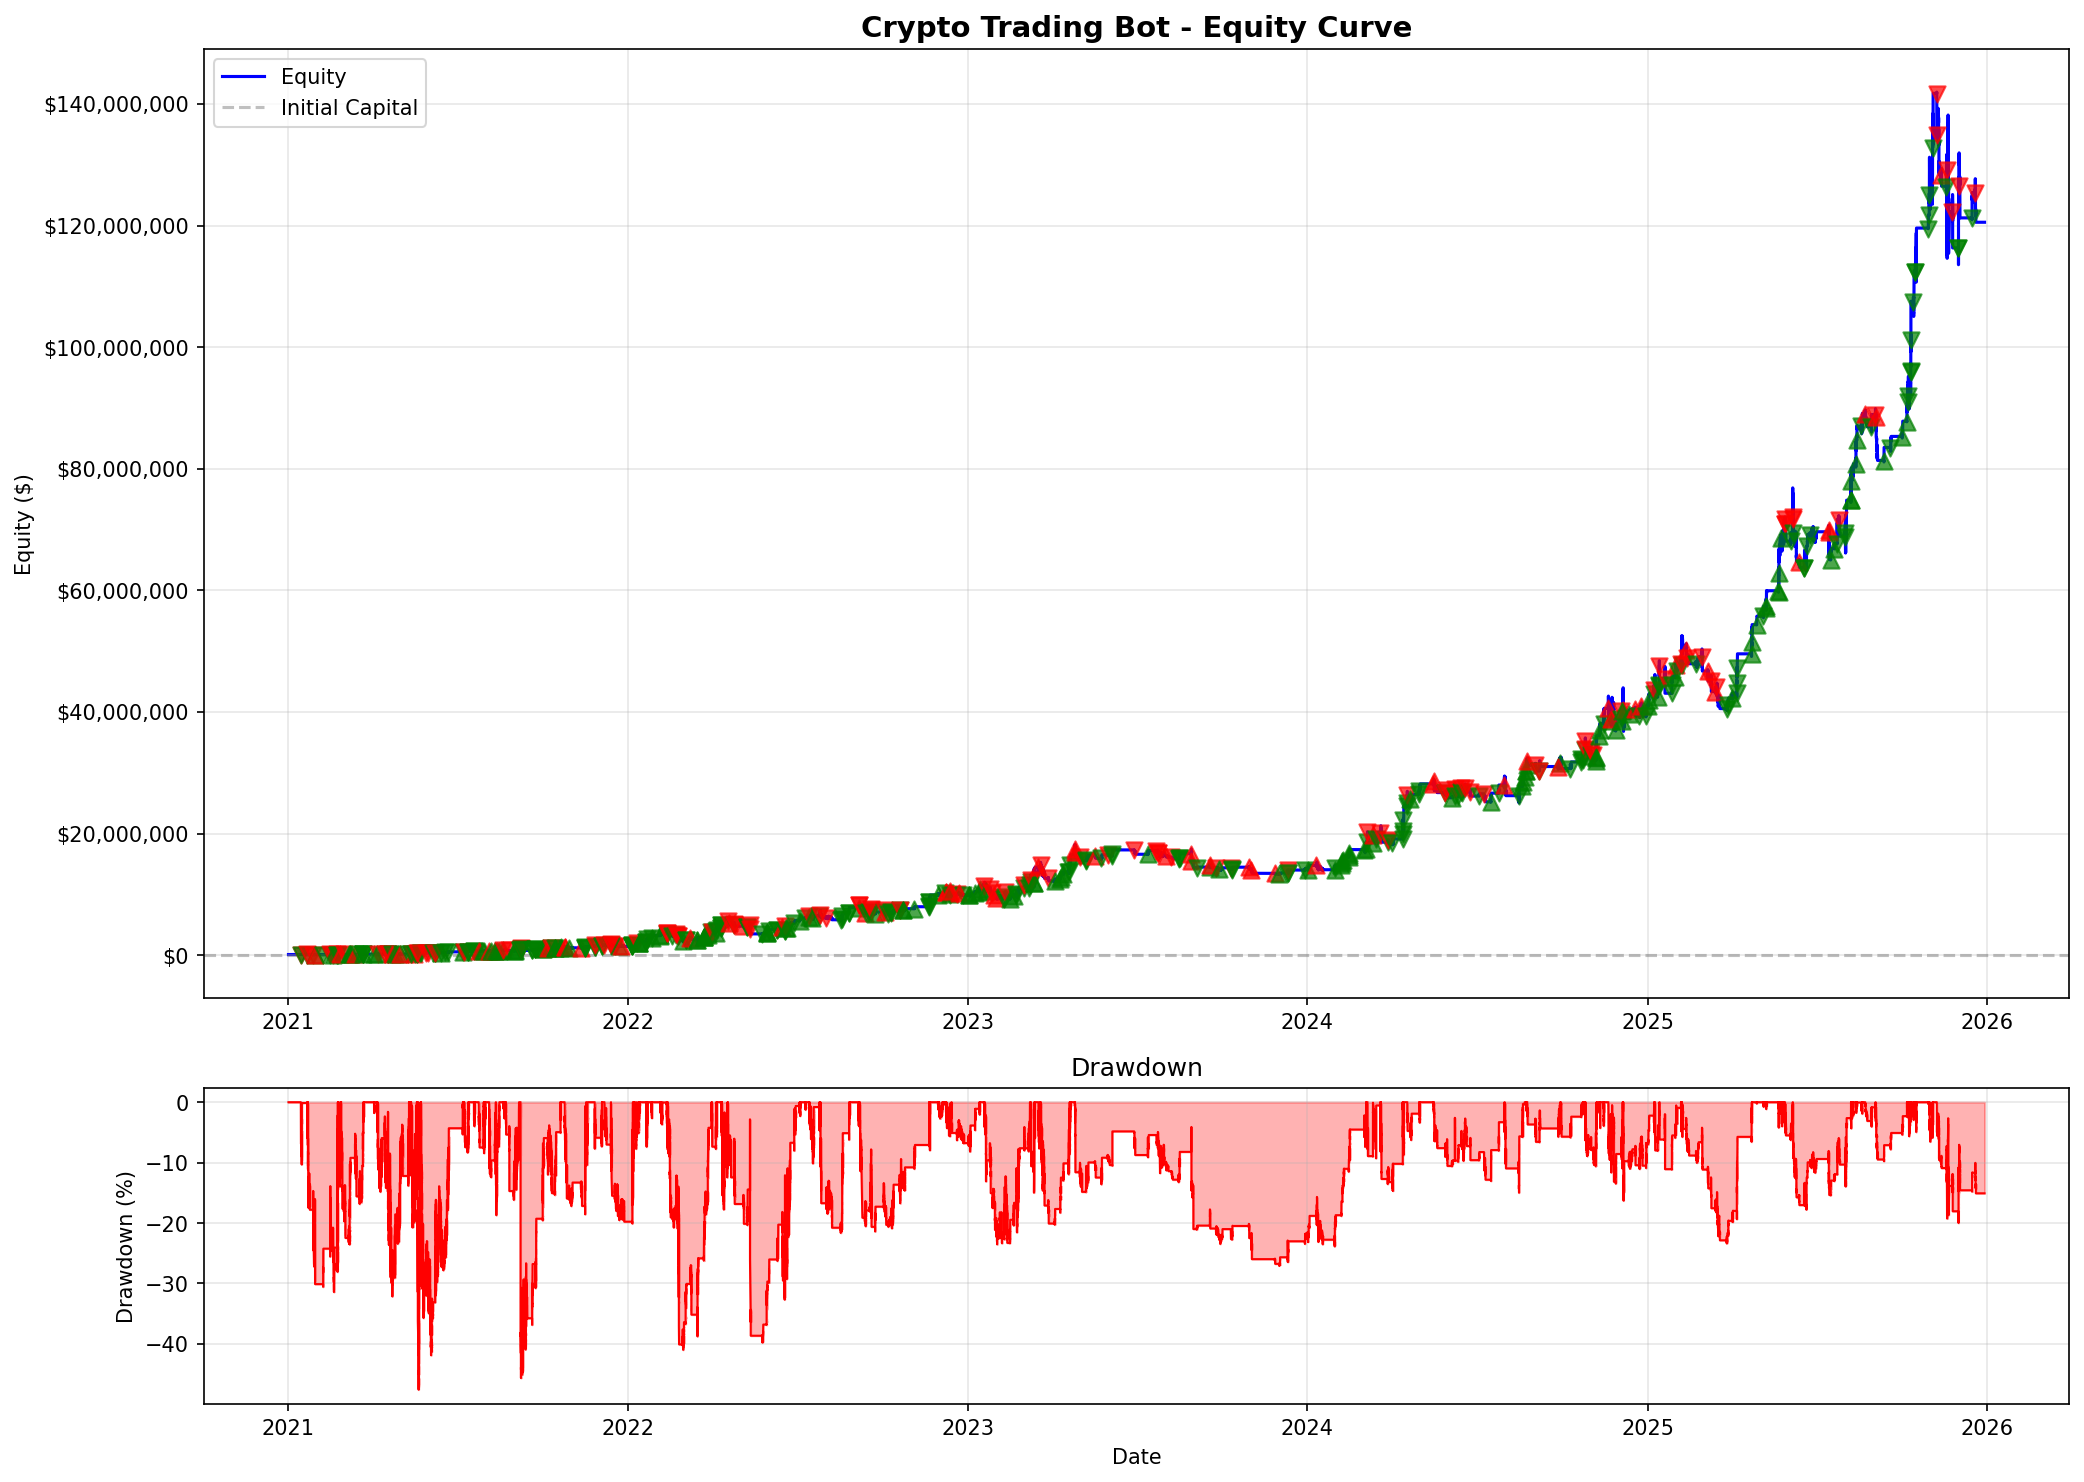
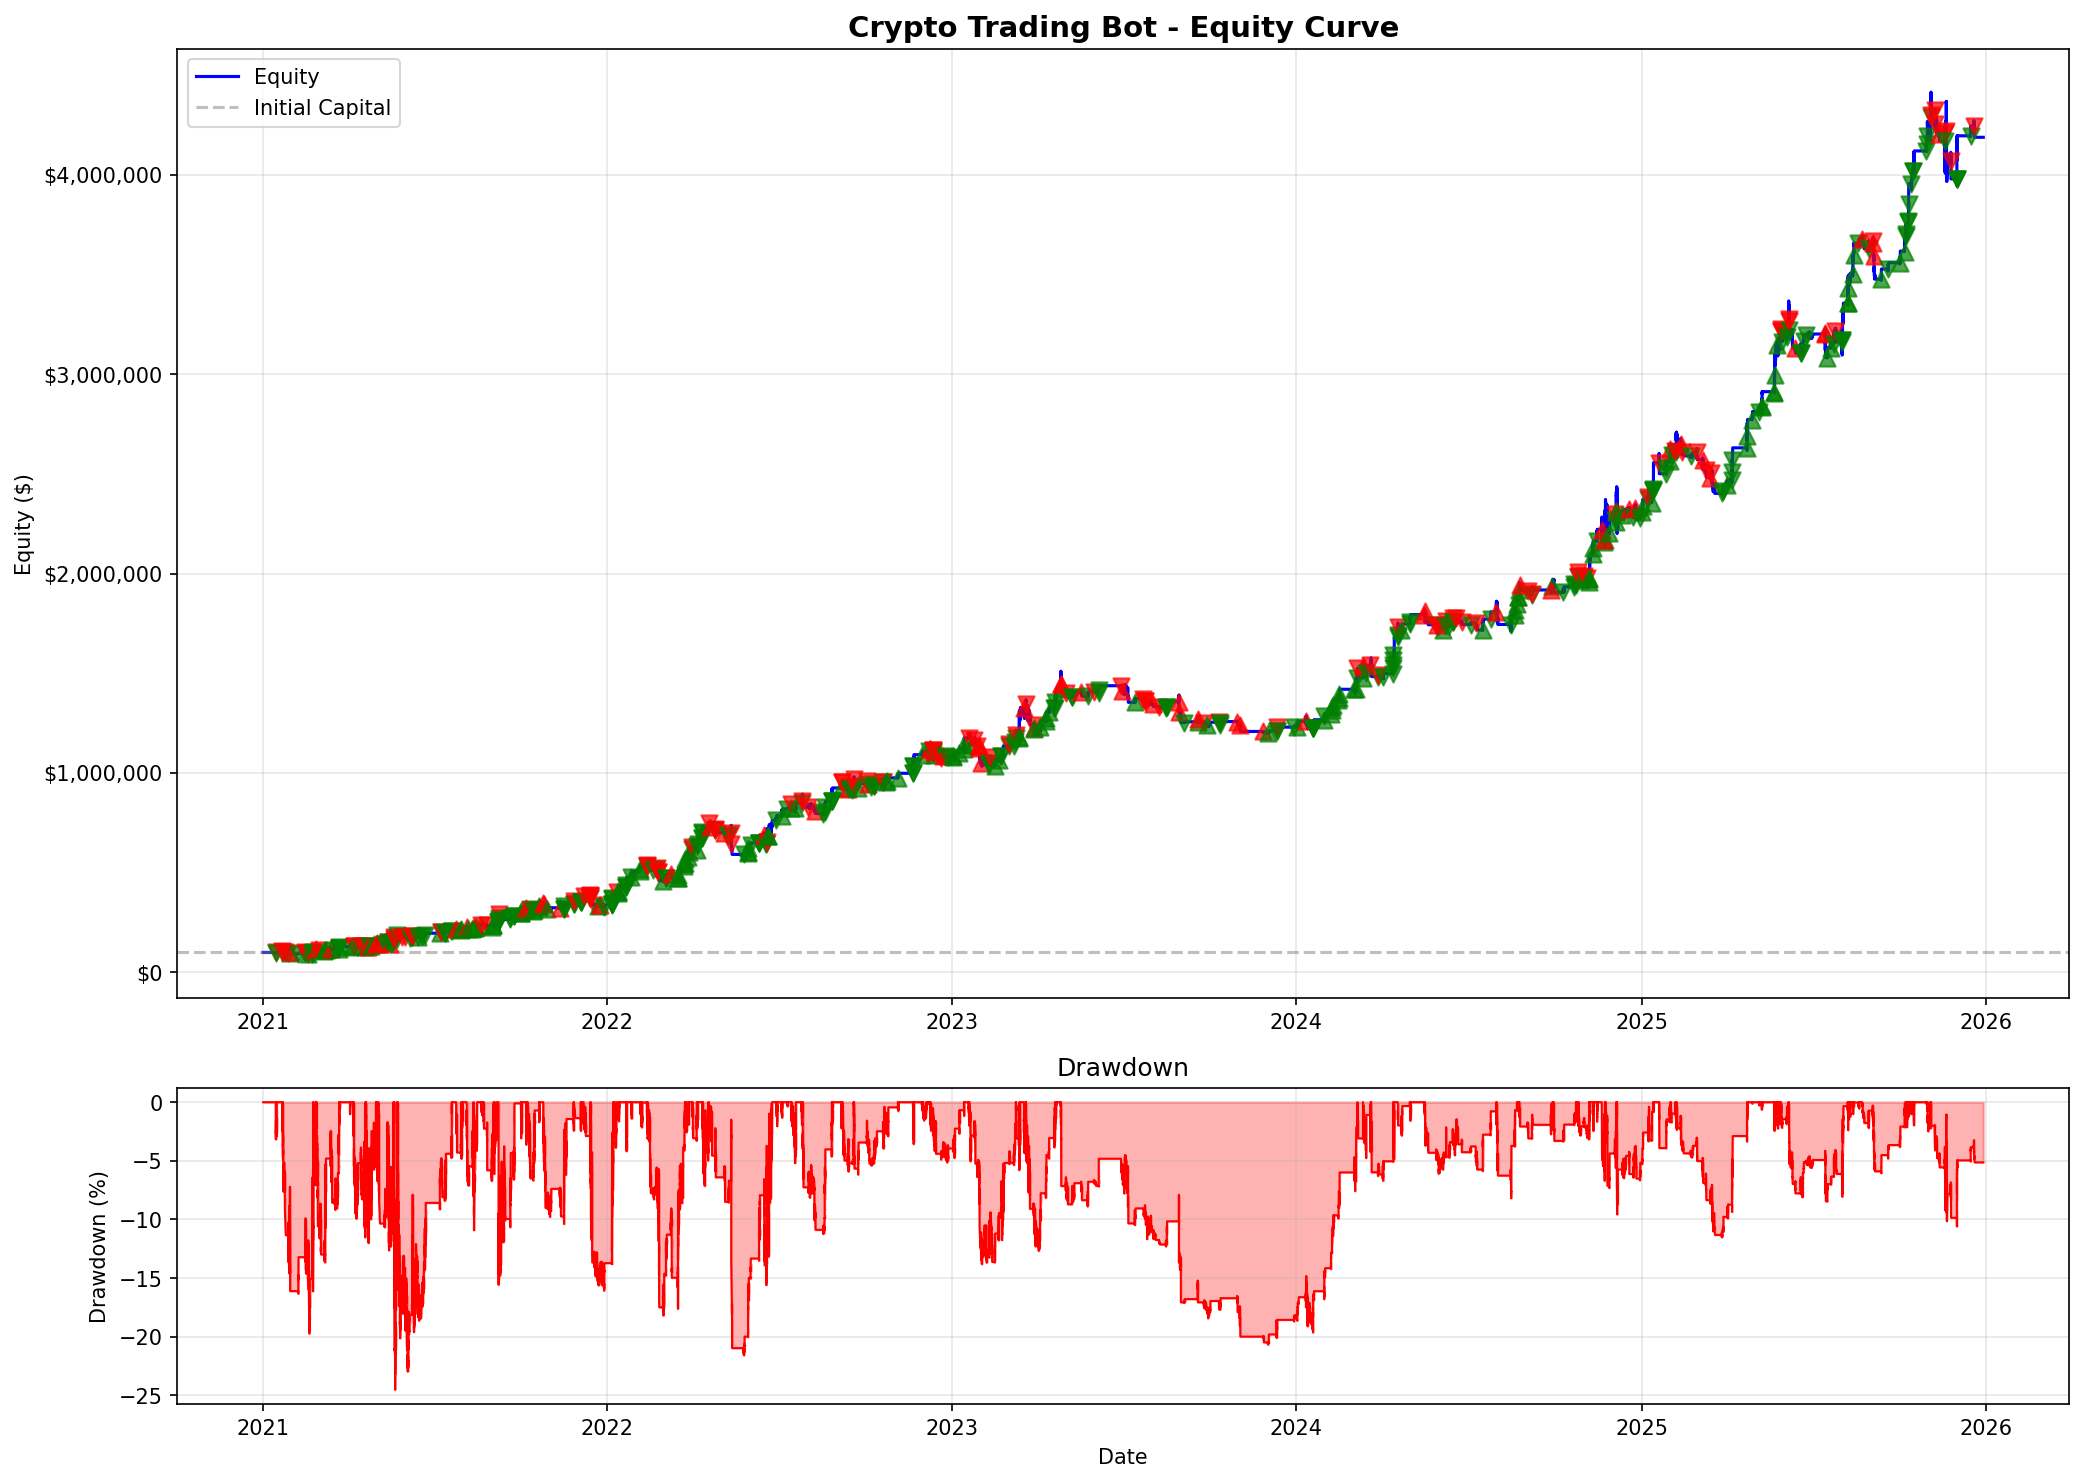
updates to live trader

diff --git a/coinbase_live_trader.py b/coinbase_live_trader.py
@@ -1742,7 +1742,64 @@ class CoinbaseLiveTrader:
         # CRITICAL: Check if position still exists on Coinbase before trying to exit
         if not self.position_exists_on_coinbase(symbol):
             logger.warning(f"Position {symbol} no longer exists on Coinbase - removing from tracking")
-            logger.warning(f"  (Position may have been closed manually)")
+            logger.warning(f"  (Position may have been closed manually or liquidated)")
+            
+            # Calculate P&L using current price (best estimate)
+            price = self.get_price(symbol)
+            if price:
+                info = self.product_info.get(symbol, {})
+                is_futures = info.get('is_futures', False)
+                
+                if is_futures:
+                    contract_size = info.get('contract_size', 0.1)
+                    if pos['side'] == 'LONG':
+                        pnl_per_contract = (price - pos['entry_price']) * contract_size
+                    else:
+                        pnl_per_contract = (pos['entry_price'] - price) * contract_size
+                    total_pnl = pnl_per_contract * pos['size']
+                else:
+                    if pos['side'] == 'LONG':
+                        total_pnl = (price - pos['entry_price']) * pos['size']
+                    else:
+                        total_pnl = (pos['entry_price'] - price) * pos['size']
+                
+                # Record exit with monitoring
+                self.stats.record_exit(
+                    symbol=symbol,
+                    direction=pos['side'],
+                    entry_data=pos,
+                    exit_price=price,
+                    size=pos['size'],
+                    stop_loss=pos['stop'],
+                    take_profit=pos['target'],
+                    exit_reason="Closed externally",
+                    gross_pnl=total_pnl,
+                )
+                
+                # Send Telegram notification
+                entry_time = pos.get('entry_time', datetime.now())
+                duration_hours = (datetime.now() - entry_time).total_seconds() / 3600
+                notional = pos.get('notional', 0)
+                pnl_pct = total_pnl / notional if notional > 0 else 0
+                trade_id = pos.get('trade_id', 0)
+                
+                self.telegram.send_trade_exit(
+                    symbol=symbol,
+                    direction=pos['side'],
+                    pnl=total_pnl,
+                    pnl_pct=pnl_pct,
+                    exit_reason="Closed externally (manual/liquidation)",
+                    duration_hours=duration_hours,
+                    cumulative_pnl=self.stats.cumulative_pnl,
+                    balance=self.stats.current_balance,
+                    trade_id=trade_id
+                )
+                
+                self.signal_generator.record_trade_result(total_pnl)
+                logger.info(f"  Estimated P&L: ${total_pnl:+,.2f} (using current price ${price:,.2f})")
+            else:
+                logger.warning(f"  Could not calculate P&L - no price available")
+            
             del self.positions[symbol]
             return
         

diff --git a/README.md b/README.md
@@ -1,6 +1,6 @@
 # Keltrader
 
-Keltrader is a fully automatic algorithmic trading system that trades cryptocurrency perpetual futures 24/7. The bot identifies low-volatility consolidation patterns and enters positions when volatility expands, capturing momentum breakouts in either direction.
+Keltrader is a fully automatic algorithmic trading system that trades cryptocurrency perpetual futures. The bot identifies low-volatility consolidation periods and enters positions when volatility expands, capturing momentum breakouts in either direction.
 
 **Capabilities:**
 - Real-time signal generation using Bollinger Band / Keltner Channel squeeze detection
